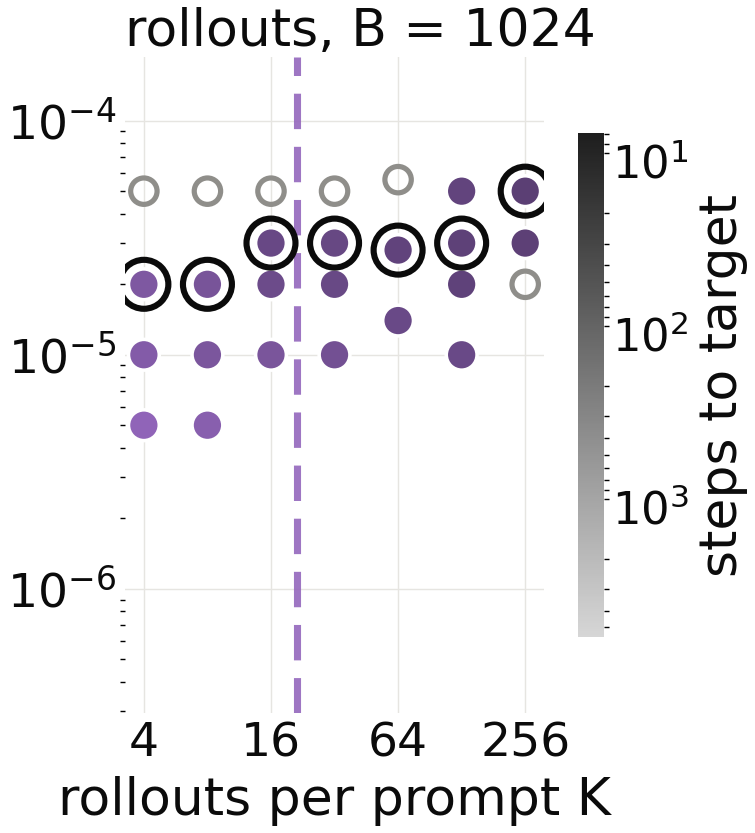
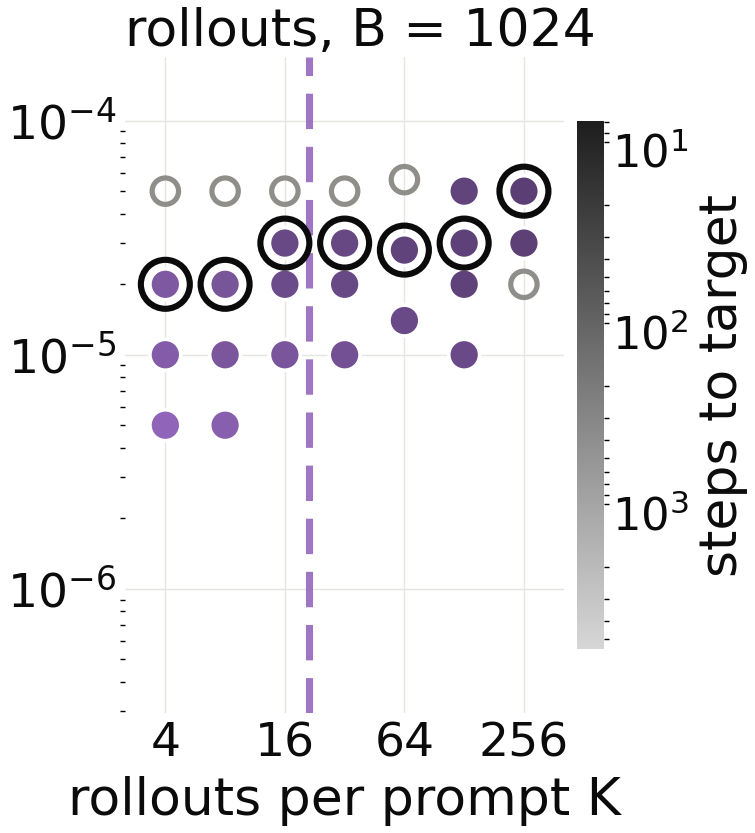
plots: LR figure pads the x-axis in the paper layout
Claude-Session: https://claude.ai/code/session_01W75chJn3avZzxyPZDywWSf

diff --git a/plots/scripts/plot_steps_to_50_combined.py b/plots/scripts/plot_steps_to_50_combined.py
@@ -200,6 +200,8 @@ def panel(ax, sub, xcol, xlabel, fit, star=None, cmap=CMAP, fitc=FITC, starc=STA
     else:
         ax.set_xticks(xs); ax.set_xticklabels([fmt(x) for x in xs])
     ax.set_xlabel(xlabel, color=INK, fontsize=LABEL)
+    if SPLIT:       # room for the large rings at both ends of the axis
+        ax.set_xlim(min(xs) / 1.6, max(xs) * 1.6)
     style(ax)
     return best, gb, note, drawn, plateau
 
